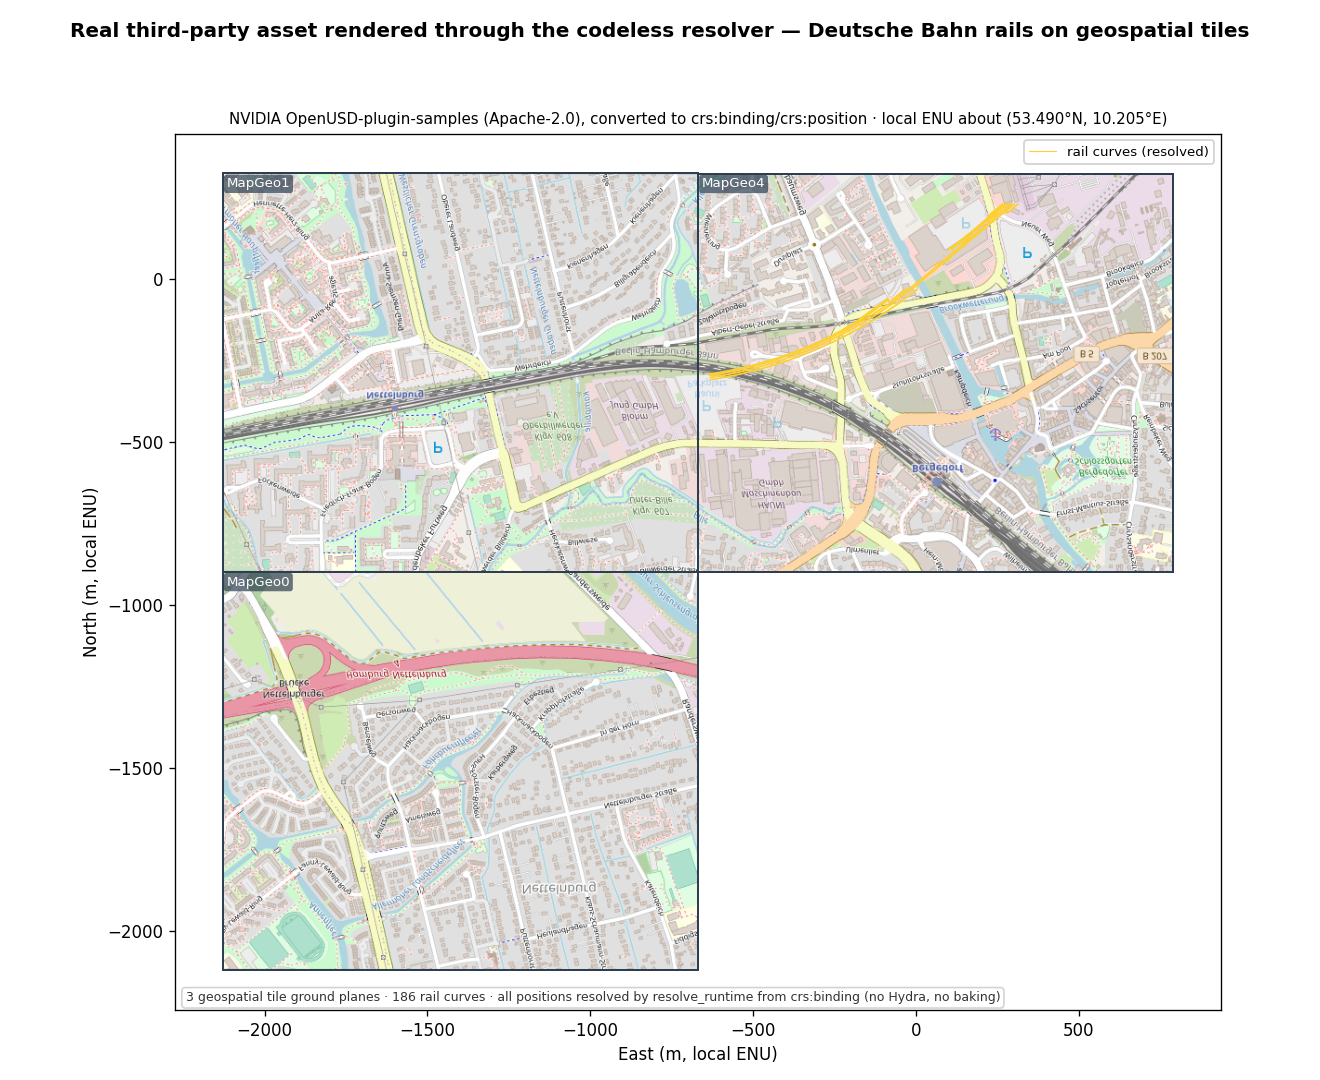
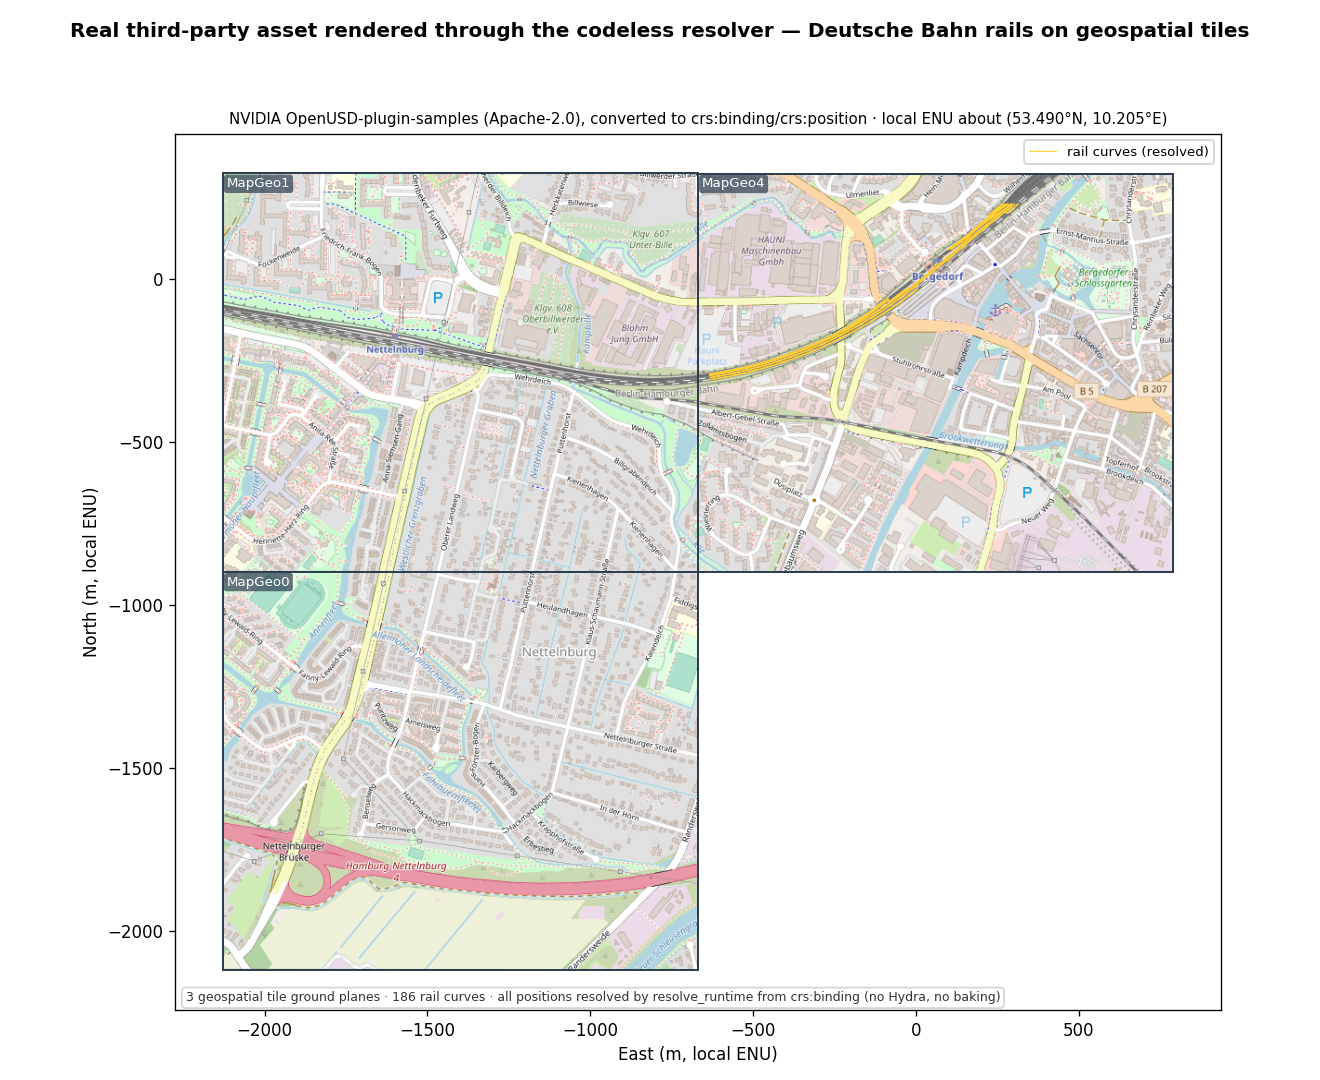
usdGeospatial: fix N/S texture flip regressed by the UV-mapping commit
Commit 406123cfb (faithful UsdUVTexture/st rendering) reintroduced the exact
N/S texture flip that 56f5ea855 had fixed: the affine UV-space imshow used
origin='lower', which places the picture's TOP row at t=0. But the st contract
has t=0 at the SOUTH corner, so the image top landed in the south -> tiles
mirror-reversed and the (correctly-resolved) rails appeared misplaced against
the flipped basemap. Fix: origin='upper' in the UV-space imshow (image row 0 ->
t=1 -> north), in both _draw_uv_textured_quad sites (render_figures.py and
fig_runtime_parity.py). Regenerated railway_render.png + runtime_parity.png.

Verified by PIXEL SAMPLING this time, not just the affine math: render a known
top=red/bottom=blue test image -> north samples red (correct); and on the real
asset, figure-north matches the source image's top rows. Geometry/parity
unchanged (median 0.40 / worst 0.68 mm over 3,526 verts).

Changed region(s): [[0.1553, 0.1528, 0.9008, 0.9167]]

diff --git a/extras/usd/examples/usdGeospatial/src/render_figures.py b/extras/usd/examples/usdGeospatial/src/render_figures.py
@@ -564,8 +564,11 @@ def _draw_uv_textured_quad(ax, img, corners_en, uvs, **imshow_kw):
     S = np.column_stack([uvs[:, 0], uvs[:, 1], np.ones(len(uvs))])  # (n,3)
     EN = np.asarray(corners_en)                                     # (n,2)
     A, *_ = np.linalg.lstsq(S, EN, rcond=None)                      # (3,2): cols E,N
-    # imshow in UV space: extent [0,1]x[0,1], origin=lower so row0=t=0 (bottom).
-    im = ax.imshow(img, extent=[0, 1, 0, 1], origin="lower", **imshow_kw)
+    # imshow in UV space: extent [0,1]x[0,1]. origin="upper" so image row 0
+    # (top of the picture) maps to t=1, and the bottom row to t=0 -- matching the
+    # st convention. (origin="lower" here puts the picture's TOP at t=0, flipping
+    # the texture N/S -- the mirrored-tile bug.) Verified by pixel sampling.
+    im = ax.imshow(img, extent=[0, 1, 0, 1], origin="upper", **imshow_kw)
     # Affine2D maps (s,t)->(E,N): [[a_e_s, a_e_t, a_e_1],[a_n_s, a_n_t, a_n_1]]
     aff = mtransforms.Affine2D(matrix=np.array([
         [A[0, 0], A[1, 0], A[2, 0]],

diff --git a/extras/usd/examples/usdGeospatial/fig_runtime_parity.py b/extras/usd/examples/usdGeospatial/fig_runtime_parity.py
@@ -131,7 +131,9 @@ def _draw_uv_textured_quad(ax, img, corners_en, uvs, **imshow_kw):
         return
     S = np.column_stack([uvs[:, 0], uvs[:, 1], np.ones(len(uvs))])
     A, *_ = np.linalg.lstsq(S, np.asarray(corners_en), rcond=None)  # (3,2)
-    im = ax.imshow(img, extent=[0, 1, 0, 1], origin="lower", **imshow_kw)
+    # origin="upper": image row 0 (picture top) -> t=1, bottom row -> t=0, per st.
+    # (origin="lower" flips the texture N/S -- the mirrored-tile bug.)
+    im = ax.imshow(img, extent=[0, 1, 0, 1], origin="upper", **imshow_kw)
     aff = mtransforms.Affine2D(matrix=np.array([
         [A[0, 0], A[1, 0], A[2, 0]],
         [A[0, 1], A[1, 1], A[2, 1]],
